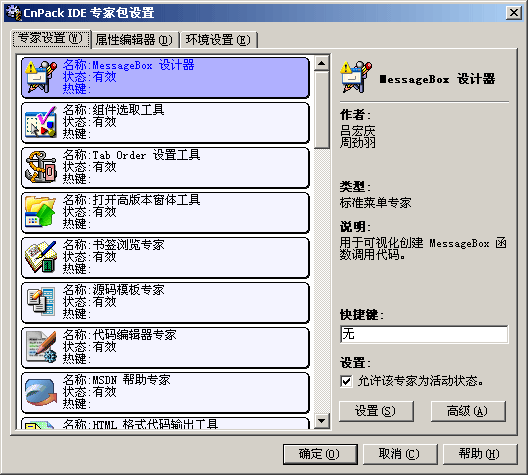
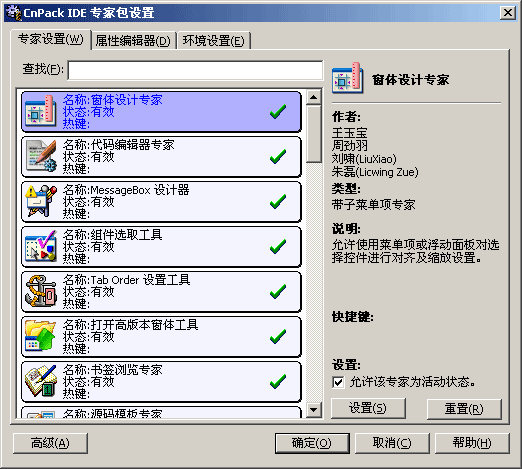
* [Help] Update Help Content for Wizard Reset.

diff --git a/Help/CnWizards_ENU/options/wizconfig.htm b/Help/CnWizards_ENU/options/wizconfig.htm
@@ -57,6 +57,9 @@
     <p class="text"><b>Settings</b>: If current wizard supports settings, click this button will show its setting dialog.</p>
   </li>
   <li> 
+    <p class="text"><b>Reset</b>: If current wizard supports settings, click this button will reset its setting to default.</p>
+  </li>
+  <li> 
     <p class="text"><b>Advanced</b>: Advanced settings, see below.</p>
   </li>
 </ul>
